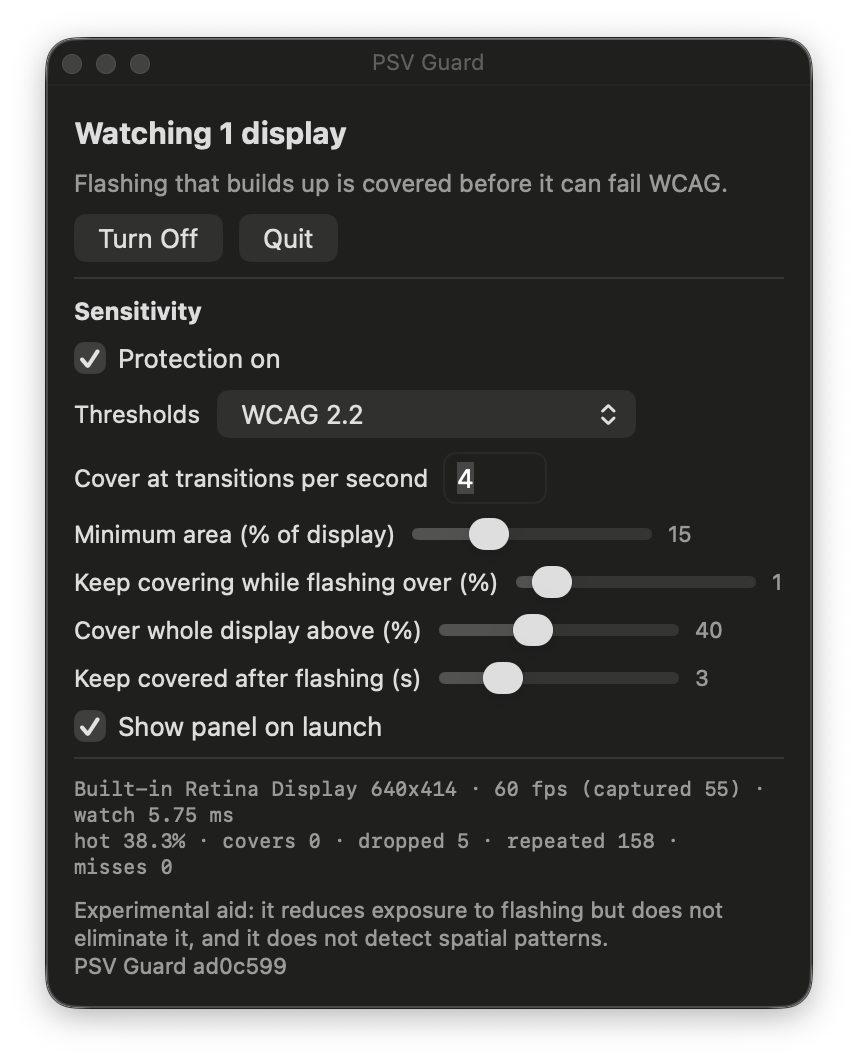
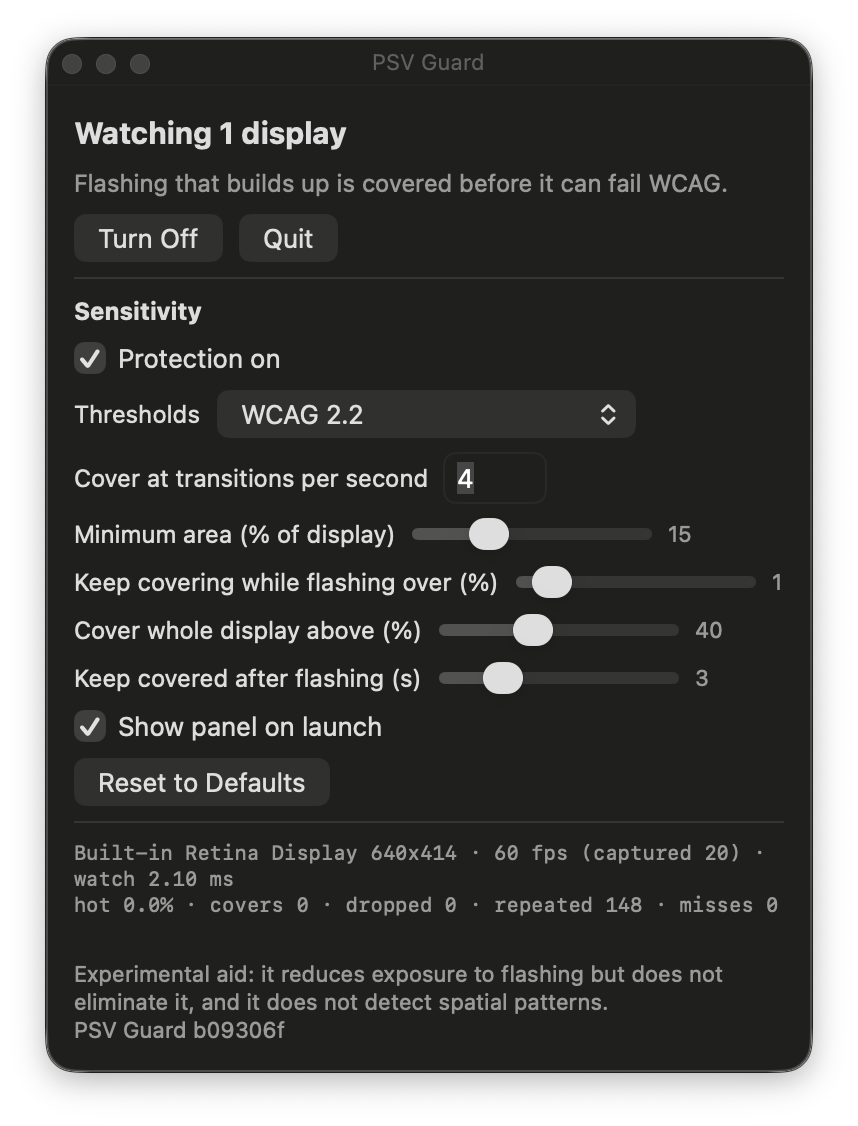
feat(app): add a reset to defaults button to the panel
Tuning the sensitivity sliders left no way back to the defaults
short of editing settings.json.

The panel now has a Reset to Defaults button. It sends a new
resetSettings action; the controller restores every setting,
including fps and capture width, saves them and applies them at
once. Protection stays on or off as it was.

Impact: the action event gains the resetSettings value; no entry
point, event kind or binary layout changes.

diff --git a/internal/app/app.go b/internal/app/app.go
@@ -257,6 +257,8 @@ func (c *Controller) onAction(a ui.Action) {
 		c.setSetting("enabled", fmt.Sprint(!c.s.Enabled))
 	case ui.SetSetting:
 		c.setSetting(a.Key, a.Value)
+	case ui.ResetSettings:
+		c.resetSettings()
 	case ui.RequestPermission:
 		c.bus.Post(bridge.RequestPermission{})
 	case ui.OpenPermission:
@@ -279,8 +281,33 @@ func (c *Controller) setSetting(key, value string) {
 		return
 	}
 
-	c.s = next
 	c.log.Printf("setting %s = %s", key, value)
+	c.applySettings(next)
+
+	if key == "enabled" && c.s.Enabled && c.perm == bridge.PermissionNeedsConsent && !c.asked {
+		c.asked = true
+		c.bus.Post(bridge.RequestPermission{})
+	}
+}
+
+// resetSettings restores the defaults, keeping protection on or off as it is.
+func (c *Controller) resetSettings() {
+	next := settings.Defaults()
+	next.Enabled = c.s.Enabled
+
+	if next == c.s {
+		c.bus.Post(bridge.SetControls{Controls: ui.Controls(c.s)})
+
+		return
+	}
+
+	c.log.Printf("settings reset to defaults")
+	c.applySettings(next)
+}
+
+// applySettings saves next, shows it in the panel and applies it to every stream.
+func (c *Controller) applySettings(next settings.Settings) {
+	c.s = next
 
 	if c.o.Store != nil {
 		if err := c.o.Store.Save(c.s); err != nil {
@@ -290,11 +317,6 @@ func (c *Controller) setSetting(key, value string) {
 	}
 
 	c.bus.Post(bridge.SetControls{Controls: ui.Controls(c.s)})
-
-	if key == "enabled" && c.s.Enabled && c.perm == bridge.PermissionNeedsConsent && !c.asked {
-		c.asked = true
-		c.bus.Post(bridge.RequestPermission{})
-	}
 
 	params := c.s.Params(c.caps.ExcludesOwnWindows)
 	for _, s := range c.streams {

diff --git a/internal/app/app_test.go b/internal/app/app_test.go
@@ -404,6 +404,43 @@ func TestSettingsChangesApplyLive(t *testing.T) {
 	})
 }
 
+func TestResetSettingsRestoresDefaultsAndKeepsOnOff(t *testing.T) {
+	h := start(t, macCaps)
+	h.grant(t, display1)
+
+	h.bus.send(bridge.ActionEvent{Action: ui.Action{Kind: ui.SetSetting, Key: "calm", Value: "7"}})
+	h.bus.next(t, "controls", is[bridge.SetControls])
+	h.bus.send(bridge.ActionEvent{Action: ui.Action{Kind: ui.Toggle}})
+	h.bus.next(t, "capture stopped", is[bridge.StopCapture])
+
+	h.bus.send(bridge.ActionEvent{Action: ui.Action{Kind: ui.ResetSettings}})
+	h.bus.next(t, "controls", is[bridge.SetControls])
+	h.bus.none(t, "capture while off", is[bridge.StartCapture])
+
+	want := settings.Defaults()
+	want.Enabled = false
+
+	h.store.mu.Lock()
+	got := h.store.saved[len(h.store.saved)-1]
+	h.store.mu.Unlock()
+
+	if got != want {
+		t.Fatalf("saved %+v, want %+v", got, want)
+	}
+
+	// Resetting again changes nothing but still refreshes the panel.
+	h.bus.send(bridge.ActionEvent{Action: ui.Action{Kind: ui.ResetSettings}})
+	h.bus.next(t, "controls", is[bridge.SetControls])
+
+	h.store.mu.Lock()
+	n := len(h.store.saved)
+	h.store.mu.Unlock()
+
+	if n != 3 {
+		t.Fatalf("saved %d times, want 3", n)
+	}
+}
+
 func TestSleepStopsAndWakeRestarts(t *testing.T) {
 	h := start(t, macCaps)
 	h.grant(t, display1)

diff --git a/internal/bridge/native_darwin.go b/internal/bridge/native_darwin.go
@@ -419,6 +419,10 @@ static void pg_fade(CALayer *l, float to, double seconds) {
 	self.settingsStack.spacing = 8;
 	[self addFull:self.settingsStack to:root inset:14];
 
+	NSButton *reset = [NSButton buttonWithTitle:@"Reset to Defaults" target:self action:@selector(resetClicked:)];
+	reset.toolTip = @"Restore every setting to its default; protection stays on or off as it is";
+	[root addArrangedSubview:reset];
+
 	NSBox *line2 = [[NSBox alloc] init];
 	line2.boxType = NSBoxSeparator;
 	[self addFull:line2 to:root inset:14];
@@ -496,6 +500,7 @@ static void pg_fade(CALayer *l, float to, double seconds) {
 - (void)toggleClicked:(id)sender { [self action:@"toggle" key:nil value:nil]; }
 - (void)permissionClicked:(id)sender { [self action:@"openPermission" key:nil value:nil]; }
 - (void)quitClicked:(id)sender { [self action:@"quit" key:nil value:nil]; }
+- (void)resetClicked:(id)sender { [self action:@"resetSettings" key:nil value:nil]; }
 - (void)showPanelClicked:(id)sender { [self showPanel]; }
 
 - (void)statusClicked:(id)sender {

diff --git a/internal/ui/ui.go b/internal/ui/ui.go
@@ -94,6 +94,7 @@ type ActionKind string
 const (
 	Toggle            ActionKind = "toggle"
 	SetSetting        ActionKind = "setting"
+	ResetSettings     ActionKind = "resetSettings" // restore every setting except on/off to its default
 	RequestPermission ActionKind = "requestPermission"
 	OpenPermission    ActionKind = "openPermission"
 	Quit              ActionKind = "quit"

diff --git a/README.md b/README.md
@@ -92,7 +92,7 @@ PSV Guard runs on macOS 14 or later. Building needs Go 1.25 or later, the Xcode 
 | <img src="docs/images/before.png" alt="A dark screen with a bright green frame of a flashing video on the right" width="400"> | <img src="docs/images/after.png" alt="The same screen with the flashing video covered by a dark panel and PSV Guard's panel at the top left" width="400"> |
 
 <p align="center">
-  <img src="docs/images/panel.png" alt="PSV Guard's panel: Watching 1 display, Turn Off and Quit buttons, the sensitivity settings, live stats for the built-in display, and the experimental-aid notice" width="380">
+  <img src="docs/images/panel.png" alt="PSV Guard's panel: Watching 1 display, Turn Off and Quit buttons, the sensitivity settings, a Reset to Defaults button, live stats for the built-in display, and the experimental-aid notice" width="380">
   <br><sub><b>The panel</b>: status, sensitivity settings, live stats per display, and the experimental-aid notice.</sub>
 </p>
 
@@ -107,7 +107,7 @@ PSV Guard's own covers are kept out of the capture, so they never trigger more c
 
 ## Settings
 
-Settings are in the panel and saved in `~/Library/Application Support/psvguard/settings.json`. Every setting is also a command-line flag of the same name, which overrides the saved value for that run.
+Settings are in the panel and saved in `~/Library/Application Support/psvguard/settings.json`. Every setting is also a command-line flag of the same name, which overrides the saved value for that run. **Reset to Defaults** in the panel restores every setting below except `enabled`, so protection stays on or off as it was.
 
 | Setting | Default | Effect |
 | ------- | ------- | ------ |

diff --git a/docs/architecture.md b/docs/architecture.md
@@ -137,7 +137,7 @@ Events (`EventKind` in `internal/bridge/contract.go`, mirrored in `native_darwin
 | --- | --- |
 | 1 capabilities | `{"excludesOwnWindows","canOverlay","perDisplayCapture","consentPerSession","pixelFormats"}` |
 | 2 ready | none |
-| 3 action | `{"kind":"toggle"|"setting"|"requestPermission"|"openPermission"|"quit","key","value"}` |
+| 3 action | `{"kind":"toggle"|"setting"|"resetSettings"|"requestPermission"|"openPermission"|"quit","key","value"}` |
 | 4 displays | `[{"id","name","width","height","pixelWidth","pixelHeight","main"}]`, sizes in points |
 | 5 permission | `{"state":"granted"|"denied"|"needsConsent"|"unknown"}` |
 | 6 streamStarted, 7 streamStopped, 8 streamFailed | `{"stream","display","error"}`; a stopped stream's frame target is released |
